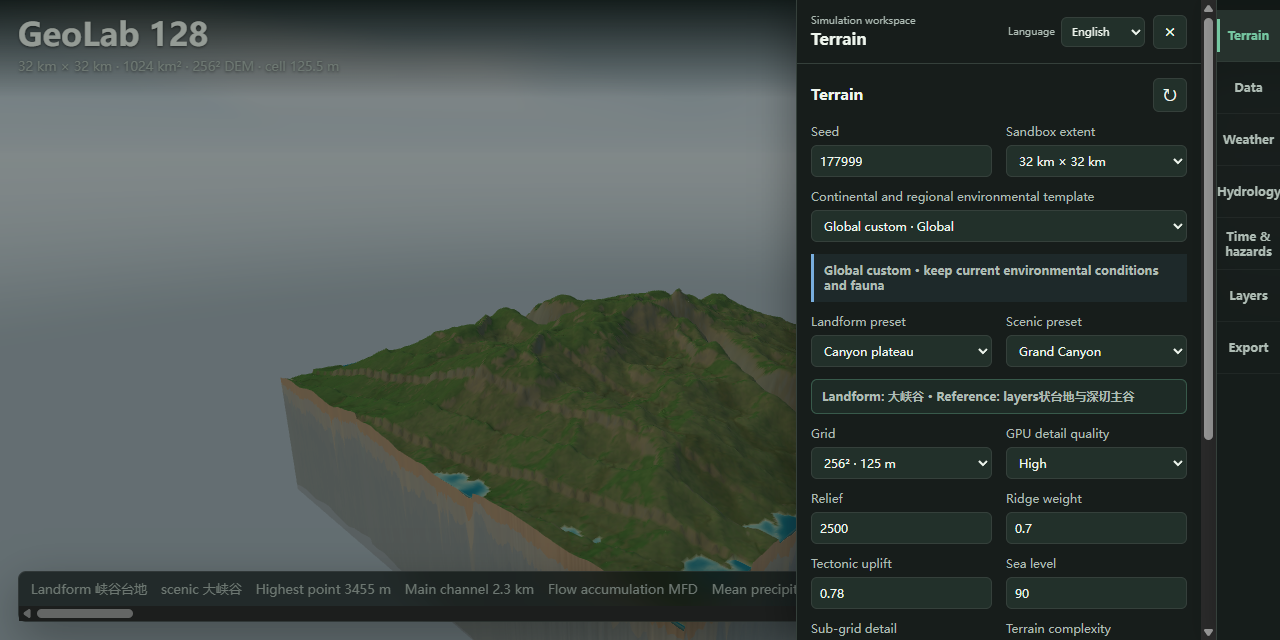
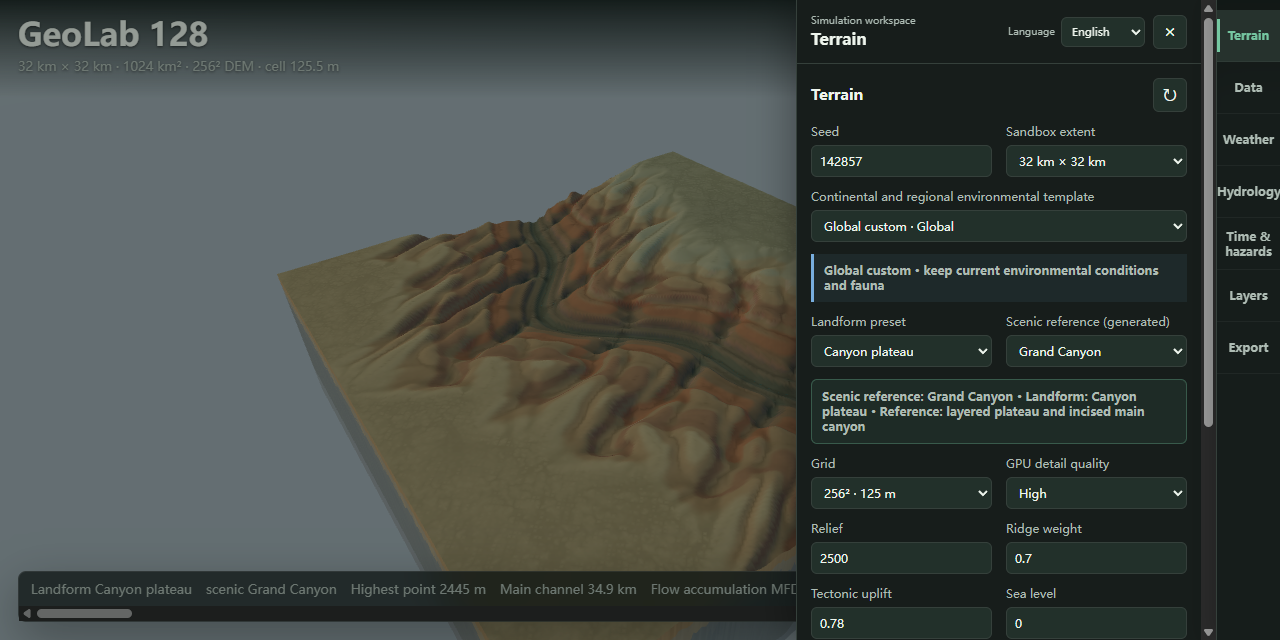
feat: rebuild generated Grand Canyon scenic terrain

diff --git a/outputs/geo-sim/src/geoEngine.js b/outputs/geo-sim/src/geoEngine.js
@@ -927,7 +927,7 @@ const INFRASTRUCTURE_TYPE_LABELS_ZH = Object.freeze({
 
 export const GEOMORPHOLOGY_PRESETS = Object.freeze([
   { id: "custom", labelZh: "\u81ea\u5b9a\u4e49\u5730\u5f62", referenceLandformZh: "\u7528\u6237\u624b\u52a8\u53c2\u6570", seedOffset: 0, params: {} },
-  { id: "canyon_plateau", labelZh: "\u5ce1\u8c37\u53f0\u5730", referenceLandformZh: "\u5e72\u65f1\u53f0\u5730\u6df1\u5207\u5ce1\u8c37", seedOffset: 4103, params: { relief: 2050, ridgeWeight: 0.68, tectonics: 0.72, microRelief: 24, riverThreshold: 56 } },
+  { id: "canyon_plateau", labelZh: "\u5ce1\u8c37\u53f0\u5730", referenceLandformZh: "\u5e72\u65f1\u53f0\u5730\u6df1\u5207\u5ce1\u8c37", seedOffset: 4103, params: { relief: 2050, ridgeWeight: 0.68, tectonics: 0.72, microRelief: 24, seaLevel: 0, humidity: 0.38, precipitationScale: 0.6, riverThreshold: 56 } },
   { id: "karst_towers", labelZh: "\u5580\u65af\u7279\u5cf0\u6797", referenceLandformZh: "\u77f3\u67f1 / 鐭虫煴\u3001\u5cf0\u4e1b\u3001\u6eb6\u8680\u6d3c\u5730", seedOffset: 7207, params: { relief: 1900, ridgeWeight: 0.82, tectonics: 0.62, microRelief: 32, permeability: 0.44, riverThreshold: 64 } },
   { id: "alpine_glacier", labelZh: "\u9ad8\u5c71\u51b0\u5ddd\u8c37", referenceLandformZh: "U \u578b\u8c37\u3001\u89d2\u5cf0\u3001\u51b0\u6597", seedOffset: 9109, params: { relief: 2600, ridgeWeight: 0.76, tectonics: 0.84, microRelief: 26, baseTemperature: 8.5, lapseRate: 7.1 } },
   { id: "volcanic_island", labelZh: "\u706b\u5c71\u5c9b\u5f27", referenceLandformZh: "\u706b\u5c71\u9525\u3001\u7834\u706b\u5c71\u53e3\u3001\u6d77\u5cb8\u9636\u5730", seedOffset: 1213, params: { relief: 2300, ridgeWeight: 0.58, tectonics: 0.88, microRelief: 20, seaLevel: 160 } },
@@ -963,7 +963,7 @@ export const SCENIC_REPRODUCTION_PRESETS = Object.freeze([
     seedOffset: 30031,
     params: { relief: 2225, ridgeWeight: 0.86, tectonics: 0.7, microRelief: 36, permeability: 0.48, riverThreshold: 58 }
   },
-  { id: "grand_canyon", labelZh: "\u5927\u5ce1\u8c37", geomorphologyPreset: "canyon_plateau", referenceLandformZh: "\u5c42\u72b6\u53f0\u5730\u4e0e\u6df1\u5207\u4e3b\u8c37", reconstructionNotesZh: ["\u7528\u5f2f\u66f2\u4e3b\u5ce1\u8c37\u548c\u591a\u7ea7\u9636\u5730\u8868\u8fbe\u53f0\u5730\u5207\u5272\u5730\u8c8c"], seedOffset: 31039, params: { relief: 2500, ridgeWeight: 0.7, tectonics: 0.78, microRelief: 26, riverThreshold: 52 } },
+  { id: "grand_canyon", labelZh: "\u5927\u5ce1\u8c37", geomorphologyPreset: "canyon_plateau", referenceLandformZh: "\u5c42\u72b6\u53f0\u5730\u4e0e\u6df1\u5207\u4e3b\u8c37", reconstructionNotesZh: ["\u7528\u5f2f\u66f2\u4e3b\u5ce1\u8c37\u548c\u591a\u7ea7\u9636\u5730\u8868\u8fbe\u53f0\u5730\u5207\u5272\u5730\u8c8c"], seedOffset: 31039, params: { relief: 2500, ridgeWeight: 0.7, tectonics: 0.78, microRelief: 26, seaLevel: 0, latitude: 36, baseTemperature: 24, humidity: 0.25, precipitationScale: 0.5, vegetationCoverScale: 0.5, riverThreshold: 52 } },
   { id: "guilin_lijiang", labelZh: "\u6842\u6797\u6f13\u6c5f", geomorphologyPreset: "karst_towers", referenceLandformZh: "\u5580\u65af\u7279\u5b64\u5cf0\u3001\u6c5f\u6d41\u5e73\u539f", reconstructionNotesZh: ["\u964d\u4f4e\u6574\u4f53\u8d77\u4f0f\u3001\u5f3a\u5316\u4f4e\u5730\u6cb3\u8c37\u4e0e\u5b64\u5cf0\u7684\u5bf9\u6bd4"], seedOffset: 32041, params: { relief: 1450, ridgeWeight: 0.78, tectonics: 0.52, microRelief: 26, humidity: 1.12, riverThreshold: 44 } },
   { id: "yosemite_valley", labelZh: "\u7ea6\u585e\u7c73\u8482\u51b0\u5ddd\u8c37", geomorphologyPreset: "alpine_glacier", referenceLandformZh: "\u82b1\u5c97\u5ca9 U \u578b\u8c37\u3001\u60ac\u5d16\u3001\u51b0\u6597", reconstructionNotesZh: ["\u901a\u8fc7 U \u578b\u8c37\u69fd\u548c\u5c71\u810a\u9510\u5316\u8fd1\u4f3c\u51b0\u5ddd\u4fb5\u8680\u5256\u9762"], seedOffset: 33049, params: { relief: 2850, ridgeWeight: 0.79, tectonics: 0.86, microRelief: 24, baseTemperature: 7.8 } },
   { id: "huangshan", labelZh: "\u9ec4\u5c71", geomorphologyPreset: "alpine_glacier", referenceLandformZh: "\u82b1\u5c97\u5ca9\u5cf0\u4e1b\u3001\u9661\u58c1\u3001\u72ed\u810a", reconstructionNotesZh: ["\u5f3a\u5316\u5cf0\u4e1b\u3001\u5c71\u810a\u548c\u5d16\u58c1\u7684\u8d77\u4f0f\uff0c\u9002\u5408\u590d\u73b0\u5c71\u5730\u666f\u89c2"], seedOffset: 34057, params: { relief: 2150, ridgeWeight: 0.84, tectonics: 0.75, microRelief: 34, humidity: 1.04 } },
@@ -1771,6 +1771,8 @@ export function createDefaultParams() {
     windSpeed: 12,
     baseTemperature: 17.5,
     humidity: 0.92,
+    precipitationScale: 1,
+    vegetationCoverScale: 1,
     latitude: 32,
     lapseRate: 6.2,
     permeability: 0.28,
@@ -1817,23 +1819,33 @@ export function applyTerrainPresetParams(baseParams = {}, selection = {}) {
   const scenicId = String(selection.scenicPreset ?? base.scenicPreset ?? "none");
   const scenic = scenicPresetById(scenicId);
   const selectedGeomorphology = selection.geomorphologyPreset ?? base.geomorphologyPreset;
-  const geomorphologyId = String(
-    selectedGeomorphology && selectedGeomorphology !== "custom"
-      ? selectedGeomorphology
-      : scenic && scenic.id !== "none"
-        ? scenic.geomorphologyPreset
-        : selectedGeomorphology || "custom"
-  );
+  const geomorphologyId = String(scenic?.id !== "none"
+    ? scenic.geomorphologyPreset
+    : selectedGeomorphology || "custom");
   const geomorphology = geomorphologyPresetById(geomorphologyId);
   const geomorphologyInfo = terrainPresetDisplayInfo(geomorphology, "geomorphology");
   const scenicInfo = terrainPresetDisplayInfo(scenic, "scenic");
   const seedBase = Number.isFinite(Number(base.seed)) ? Math.round(Number(base.seed)) : 142857;
-  const seedOffset = (geomorphology?.seedOffset || 0) + (scenic?.seedOffset || 0);
+  const previousScenicId = selection.previousScenicPreset ?? base.scenicPreset ?? "none";
+  const previousGeomorphologyId = selection.previousGeomorphologyPreset ?? base.geomorphologyPreset ?? "custom";
+  const changedPreset = scenicId !== previousScenicId || geomorphologyId !== previousGeomorphologyId;
+  const defaults = changedPreset ? createDefaultParams() : null;
   const next = {
     ...base,
+    ...(defaults && (scenicId !== "none" || geomorphologyId !== "custom") ? {
+      seaLevel: defaults.seaLevel,
+      baseTemperature: defaults.baseTemperature,
+      humidity: defaults.humidity,
+      precipitationScale: defaults.precipitationScale,
+      vegetationCoverScale: defaults.vegetationCoverScale,
+      latitude: defaults.latitude,
+      lapseRate: defaults.lapseRate,
+      windDirection: defaults.windDirection,
+      windSpeed: defaults.windSpeed
+    } : {}),
     ...(geomorphology?.params || {}),
     ...(scenic?.params || {}),
-    seed: seedOffset ? normalizeSeed(seedBase + seedOffset) : seedBase,
+    seed: seedBase,
     geomorphologyPreset: geomorphology?.id || "custom",
     scenicPreset: scenic?.id || "none",
     terrainPresetLabelZh: geomorphologyInfo?.labelZh || "\u81ea\u5b9a\u4e49\u5730\u5f62",
@@ -1865,11 +1877,6 @@ export function terrainPresetDisplayInfo(presetOrId, kind = "geomorphology") {
   if (!preset) return null;
   const overrides = TERRAIN_DISPLAY_TEXT_OVERRIDES[kind]?.[preset.id] || {};
   return { ...preset, ...overrides };
-}
-
-function normalizeSeed(value) {
-  const seed = Math.abs(Math.round(Number(value) || 1)) % 2_147_483_647;
-  return seed || 1;
 }
 
 function terrainPresetSummary(params = {}) {
@@ -7517,8 +7524,19 @@ function createHeightField(n, params) {
 
 function generateTerrain(n, params) {
   const height = new Float32Array(n * n);
-  const seed = Number(params.seed) || 1;
+  const seed = (Number(params.seed) || 1) +
+    (geomorphologyPresetById(params.geomorphologyPreset)?.seedOffset || 0) +
+    (scenicPresetById(params.scenicPreset)?.seedOffset || 0);
   const relief = Number(params.relief);
+  if (params.scenicPreset === "grand_canyon") {
+    for (let y = 0; y < n; y += 1) {
+      for (let x = 0; x < n; x += 1) {
+        height[y * n + x] = grandCanyonHeight(x / (n - 1), y / (n - 1), seed, relief, Number(params.mapSizeKm));
+      }
+    }
+    preconditionTerrain(height, n, params);
+    return height;
+  }
   const ridgeWeight = Number(params.ridgeWeight);
   const tectonics = Number(params.tectonics);
   const complexity = clamp(Number(params.terrainComplexity ?? 0.58), 0, 1);
@@ -7594,7 +7612,9 @@ function applyGeomorphologyPresetToHeight(height, n, params) {
   const id = String(params.geomorphologyPreset || "custom");
   if (!id || id === "custom") return;
   const relief = firstFinite(params.relief, 1450);
-  const seed = Number(params.seed) || 1;
+  const seed = (Number(params.seed) || 1) +
+    (geomorphologyPresetById(params.geomorphologyPreset)?.seedOffset || 0) +
+    (scenicPresetById(params.scenicPreset)?.seedOffset || 0);
   const process = terrainPresetProcessProfile(params);
   for (let y = 0; y < n; y += 1) {
     const ny = y / Math.max(1, n - 1);
@@ -7625,6 +7645,48 @@ function applyGeomorphologyPresetToHeight(height, n, params) {
       if (delta) height[i] = clamp(height[i] + delta, 0, MAX_TERRAIN_ELEVATION_M);
     }
   }
+}
+
+function grandCanyonHeight(nx, ny, seed, relief, mapSizeKm) {
+  // NPS park statistics put the rims near 2.1/2.4 km and the river roughly 1.6 km below them.
+  // This is a process-shaped reference scene, not a georeferenced Grand Canyon DEM.
+  const widthKm = Number.isFinite(mapSizeKm) && mapSizeKm > 0 ? mapSizeKm : MAP_SIZE_KM;
+  const depthScale = clamp(relief / 2500, 0.45, 1.6);
+  const center = 0.5 + Math.sin(nx * Math.PI * 2.3 + seed * 0.0007) * 0.1 +
+    Math.sin(nx * Math.PI * 5.6 + seed * 0.0011) * 0.03;
+  const side = ny < center ? -1 : 1;
+  const distanceKm = Math.abs(ny - center) * widthKm;
+  const rimVariation = 0.67 + fbm(nx * 7 + 4, ny * 2 - 3, seed + 677, 3, 2, 0.5) * 0.5 +
+    fbm(nx * 23 - 4, ny * 9 + 3, seed + 691, 3, 2, 0.5) * 0.22;
+  const distance = distanceKm / (clamp(widthKm * 0.24, 1.5, 8.5) * rimVariation);
+  const wall = clamp(
+    0.11 * smoothstep(0.015, 0.07, distance) +
+    0.20 * smoothstep(0.12, 0.19, distance) +
+    0.12 * smoothstep(0.21, 0.34, distance) +
+    0.22 * smoothstep(0.40, 0.49, distance) +
+    0.13 * smoothstep(0.57, 0.72, distance) +
+    0.22 * smoothstep(0.79, 0.98, distance), 0, 1
+  );
+  const river = 780 + (1 - nx) * widthKm * 1.3;
+  const rim = 780 + (side < 0 ? 1650 : 1350) * depthScale;
+  const plateauNoise = (fbm(nx * 5.5 + 13, ny * 5.5 - 7, seed + 701, 4, 2, 0.5) - 0.5) * 65;
+  const wallNoise = (fbm(nx * 16 - 9, ny * 16 + 21, seed + 733, 3, 2, 0.48) - 0.5) * 95;
+  const branchIndex = Math.round((nx - side * 0.085 * distance) * 7 - 0.5);
+  const branchX = (branchIndex + 0.5) / 7 + side * 0.085 * distance +
+    Math.sin(distance * 8 + branchIndex * 2.7 + seed * 0.0001) * 0.012 * distance;
+  const branchWidth = 0.012 + distance * 0.012;
+  const tributary = Math.exp(-Math.pow((nx - branchX) / branchWidth, 2)) *
+    smoothstep(0.08, 0.25, distance) * (1 - smoothstep(1.08, 1.55, distance));
+  const feederIndex = Math.round((nx - side * 0.16 * distance) * 15 - 0.5);
+  const feederX = (feederIndex + 0.5) / 15 + side * 0.16 * distance +
+    Math.sin(distance * 11 + feederIndex * 3.1 + seed * 0.00013) * 0.006 * distance;
+  const feeder = Math.exp(-Math.pow((nx - feederX) / (0.009 + distance * 0.007), 2)) *
+    smoothstep(0.35, 0.58, distance) * (1 - smoothstep(1.10, 1.45, distance));
+  return clamp(
+    river + (rim - river) * wall + plateauNoise * wall + wallNoise * Math.sin(Math.PI * wall) -
+    (tributary * 420 + feeder * 150) * depthScale,
+    1, MAX_TERRAIN_ELEVATION_M
+  );
 }
 
 function canyonPlateauDelta(nx, ny, seed, relief, process = TERRAIN_PROCESS_DEFAULT) {
@@ -21076,6 +21138,8 @@ function applyTerrainPresetColor(baseColor, model, params, i, t) {
   const plan = terrainPresetMaterialPlan(params, model.stats);
   if (!plan.active || plan.blend <= 0) return baseColor;
   const material = TERRAIN_PRESET_MATERIALS[plan.geomorphologyPreset] || TERRAIN_PRESET_MATERIALS.custom;
+  const h = Number(model.height?.[i] ?? 0);
+  const seaLevel = Number(params.seaLevel ?? 0);
   const slopeNorm = clamp((model.slope?.[i] ?? 0) / 48, 0, 1);
   const roughMax = Math.max(120, model.stats?.maxRoughness ?? 180);
   const roughNorm = clamp((model.terrainDiagnostics?.roughness?.[i] ?? 0) / roughMax, 0, 1);

diff --git a/outputs/geo-sim/src/main.js b/outputs/geo-sim/src/main.js
@@ -147,6 +147,8 @@ const ids = [
   "windSpeed",
   "baseTemperature",
   "humidity",
+  "precipitationScale",
+  "vegetationCoverScale",
   "latitude",
   "lapseRate",
   "permeability",
@@ -857,6 +859,8 @@ function bindUi() {
     "windSpeed",
     "baseTemperature",
     "humidity",
+    "precipitationScale",
+    "vegetationCoverScale",
     "latitude",
     "lapseRate",
     "permeability",
@@ -2419,9 +2423,12 @@ function exportEcologicalIntegrityCSV() {
 }
 
 async function applyTerrainPresetSelection() {
+  const previousScenicPreset = params.scenicPreset;
   const next = applyTerrainPresetParams(readParams(), {
     geomorphologyPreset: ui.geomorphologyPreset?.value || "custom",
-    scenicPreset: ui.scenicPreset?.value || "none"
+    scenicPreset: ui.scenicPreset?.value || "none",
+    previousGeomorphologyPreset: params.geomorphologyPreset,
+    previousScenicPreset: params.scenicPreset
   });
   params = next;
   writeParams(params);
@@ -2433,6 +2440,7 @@ async function applyTerrainPresetSelection() {
   const label = scenic?.id && scenic.id !== "none" ? scenicDisplay?.labelZh : geomorphologyDisplay?.labelZh || "\u81ea\u5b9a\u4e49\u5730\u5f62";
   setStatus(`\u5df2\u5e94\u7528\u5730\u8c8c\u9884\u8bbe\uff1a${label}`);
   await rebuildTerrain();
+  if (previousScenicPreset !== next.scenicPreset && next.scenicPreset === "grand_canyon") renderer.resetCamera();
 }
 
 function updateTerrainPresetStatus() {
@@ -2444,7 +2452,9 @@ function updateTerrainPresetStatus() {
   const activeScenic = scenic && scenic.id !== "none";
   const label = activeScenic ? scenicDisplay?.labelZh : geomorphologyDisplay?.labelZh || "\u81ea\u5b9a\u4e49\u5730\u5f62";
   const reference = activeScenic ? scenicDisplay?.referenceLandformZh : geomorphologyDisplay?.referenceLandformZh || "\u624b\u52a8\u53c2\u6570";
-  terrainPresetStatus.textContent = `\u5730\u8c8c\uff1a${label} · \u53c2\u7167\uff1a${reference}`;
+  terrainPresetStatus.textContent = activeScenic
+    ? `\u666f\u533a\u53c2\u8003\uff1a${label} · \u5730\u8c8c\uff1a${geomorphologyDisplay?.labelZh || ""} · \u53c2\u7167\uff1a${reference}`
+    : `\u5730\u8c8c\uff1a${label} · \u53c2\u7167\uff1a${reference}`;
 }
 
 async function rebuildTerrain() {
@@ -3006,10 +3016,6 @@ function updateMetrics() {
   const eventDynamics = stats.hazards?.eventDynamics || null;
   const eventPulses = eventDynamics?.currentYearPulses || null;
   const seasonalState = stats.hazards?.seasonalState || eventDynamics?.seasonalState || null;
-  const terrainPresetMetricChips = [
-    stats.terrainPreset?.active ? `<span>\u5730\u8c8c/鍦拌矊 ${stats.terrainPreset.labelZh}</span>` : "",
-    stats.terrainPreset?.scenicPreset && stats.terrainPreset.scenicPreset !== "none" ? `<span>\u666f\u533a/鏅尯 ${stats.terrainPreset.scenicLabelZh}</span>` : ""
-  ].filter(Boolean);
   const cleanTerrainPresetMetricChips = [
     stats.terrainPreset?.active ? `<span>地貌 ${stats.terrainPreset.labelZh}</span>` : "",
     stats.terrainPreset?.scenicPreset && stats.terrainPreset.scenicPreset !== "none" ? `<span>景区 ${stats.terrainPreset.scenicLabelZh}</span>` : ""
@@ -3509,6 +3515,8 @@ function readParams() {
     windSpeed: Number(ui.windSpeed.value),
     baseTemperature: Number(ui.baseTemperature.value),
     humidity: Number(ui.humidity.value),
+    precipitationScale: Number(ui.precipitationScale.value),
+    vegetationCoverScale: Number(ui.vegetationCoverScale.value),
     latitude: Number(ui.latitude.value),
     lapseRate: Number(ui.lapseRate.value),
     permeability: Number(ui.permeability.value),

diff --git a/outputs/geo-sim/src/terrainAppearance.js b/outputs/geo-sim/src/terrainAppearance.js
@@ -14,6 +14,30 @@ const smooth = (low, high, value) => {
   const t = unit((value - low) / (high - low));
   return t * t * (3 - 2 * t);
 };
+// Illustrative bed colors and alternating cliff/bench levels, not mapped local stratigraphy.
+const CANYON_BEDS = [
+  [780, [94, 91, 88]],
+  [930, [125, 100, 91]],
+  [1110, [154, 111, 91]],
+  [1320, [185, 105, 78]],
+  [1510, [178, 135, 106]],
+  [1710, [169, 111, 91]],
+  [1890, [191, 145, 112]],
+  [2070, [207, 176, 139]],
+  [2270, [191, 183, 157]],
+  [2440, [159, 151, 135]]
+];
+
+function canyonBedColor(height) {
+  let color = CANYON_BEDS[0][1];
+  for (let i = 1; i < CANYON_BEDS.length; i += 1) {
+    const [elevation, next] = CANYON_BEDS[i];
+    const blend = smooth(elevation - 35, elevation + 35, height);
+    if (blend === 0) break;
+    color = color.map((channel, index) => channel * (1 - blend) + next[index] * blend);
+  }
+  return color;
+}
 
 /**
  * Geomorphic description of one surface cell, derived from the lithology that underlies it.
@@ -212,14 +236,16 @@ export function naturalTerrainColor(model, params, index, weights = null, lithol
   if (model.height[index] <= (Number(params?.seaLevel) || 0)) return [142, 151, 132];
   const geomorphology = prepared || surfaceGeomorphology(model, params, index, { lithologyTable });
   const [rock, vegetation, wet, sealed] = weights || [geomorphology.rock, geomorphology.vegetation, geomorphology.wet, geomorphology.sealed];
-  const soil = [139, 121, 93];
-  const mineral = [147, 151, 146];
-  const plant = [65, 108, 54];
+  const canyonReference = params?.scenicPreset === "grand_canyon";
+  const canyonBed = canyonReference ? canyonBedColor(model.height[index]) : null;
+  const soil = canyonBed ? canyonBed.map(channel => channel * 0.92 + 10) : [139, 121, 93];
+  const mineral = canyonBed || [147, 151, 146];
+  const plant = canyonReference ? [83, 105, 65] : [65, 108, 54];
   // Weathered cover and scree are drawn toward the lithology's own colour, so a granite upland and
   // a clay plain stop sharing one regolith tone.
   const lithologyColor = lithologyTable?.[geomorphology.lithologyCode]?.color || lithologyTable?.[0]?.color || null;
   const cover = unit(geomorphology.regolith ?? 0) + unit(geomorphology.scree ?? 0);
-  const regolithTone = lithologyColor
+  const regolithTone = lithologyColor && !canyonReference
     ? soil.map((value, channel) => value * 0.72 + lithologyColor[channel] * 0.28)
     : soil;
   return regolithTone.map((value, channel) => {

diff --git a/outputs/geo-sim/src/localization.js b/outputs/geo-sim/src/localization.js
@@ -396,7 +396,10 @@ const TERMS = Object.entries({
   "大洲与区域环境模板": "Continental and regional environmental template",
   "地形复杂度": "Terrain complexity", "地貌丰富度": "Landform diversity",
   "生态区块网格": "Ecological block grid", "真实数据权重": "Observed data weight",
-  "经典景区": "Scenic preset", "地貌预设": "Landform preset", "自然条件": "environmental conditions",
+  "景区参考（程序生成）": "Scenic reference (generated)", "景区参考": "Scenic reference", "地貌预设": "Landform preset", "自然条件": "environmental conditions",
+  "峡谷台地": "Canyon plateau", "大峡谷": "Grand Canyon", "层状台地与深切主谷": "layered plateau and incised main canyon",
+  "区域降水倍率": "Regional rain scale",
+  "植被覆盖倍率": "Vegetation cover scale",
   "沙盘边长": "Sandbox extent", "网格": "Grid", "种子": "Seed", "GPU细节质量": "GPU detail quality",
   "真实数据": "Observed data", "数据层": "data layers", "采集计划": "Acquisition plan",
   "手工": "Manual", "地表": "surface", "气候情景": "climate scenario", "人造设施": "infrastructure",

diff --git a/outputs/geo-sim/index.html b/outputs/geo-sim/index.html
@@ -103,7 +103,7 @@
               <select id="geomorphologyPreset"></select>
             </label>
             <label>
-              经典景区
+              景区参考（程序生成）
               <select id="scenicPreset"></select>
             </label>
             <label class="wide-field terrain-preset-strip">
@@ -660,6 +660,14 @@
             <label>
               湿度
               <input id="humidity" type="number" min="0.15" max="1.8" step="0.01" value="0.92" />
+            </label>
+            <label>
+              区域降水倍率
+              <input id="precipitationScale" type="number" min="0.25" max="2.5" step="0.05" value="1" />
+            </label>
+            <label>
+              植被覆盖倍率
+              <input id="vegetationCoverScale" type="number" min="0.2" max="1.8" step="0.05" value="1" />
             </label>
             <label>
               纬度

diff --git a/outputs/geo-sim/src/terrainRenderer.js b/outputs/geo-sim/src/terrainRenderer.js
@@ -1013,6 +1013,11 @@ export class TerrainRenderer {
     const sizeKm = modelSizeKm(this.model);
     const focusY = terrainCameraFocusY(this.model, this.params);
     const home = cameraHome(sizeKm, this.camera.aspect);
+    if (this.params?.scenicPreset === "grand_canyon") {
+      home.x = sizeKm * 0.75;
+      home.y = sizeKm * 0.68;
+      home.z = sizeKm * 0.58;
+    }
     this.camera.position.set(home.x, home.y + focusY, home.z);
     this.controls.target.set(0, focusY, 0);
     this.controls.update();

diff --git a/README.md b/README.md
@@ -4,7 +4,7 @@
 [![License: MIT](https://img.shields.io/badge/license-MIT-2f855a.svg)](LICENSE)
 [![Version](https://img.shields.io/github/v/tag/laiyukai910-star/geolab-128?label=release)](https://github.com/laiyukai910-star/geolab-128/releases)
 
-![GeoLab 128 terrain controls and a 32 km canyon scenario](media/workspace-terrain.jpg)
+![Generated 32 km canyon reference terrain in GeoLab 128](media/workspace-terrain.jpg)
 
 GeoLab 128 builds a 3D map of a square region. Set the map size and grid, generate terrain or
 import elevation data, then change the weather, rivers, land cover and facilities. The map can be
@@ -52,9 +52,12 @@ results are not site-specific forecasts.
 
 ## Feature Gallery
 
-Browser screenshots: 32 km × 32 km, 256² grid, Grand Canyon preset. The preset is generated
-terrain, not surveyed Grand Canyon data. The opening image shows the terrain controls; below is
-the same map with flow accumulation selected.
+Browser screenshots: 32 km × 32 km, 256² grid, Grand Canyon preset. The preset now uses an inland
+plateau, incised river corridor and dry climate informed by [National Park Service park
+statistics](https://home.nps.gov/grca/learn/management/statistics.htm). It does not contain a
+georeferenced Grand Canyon DEM. River lines come from simulated local runoff, not a traced Colorado
+River or prescribed upstream inflow. The opening image shows the 3D map; below is the same scenario
+with flow accumulation selected.
 
 ![Flow accumulation selected in the analysis drawer](media/workspace-flow.jpg)
 

diff --git a/CHANGELOG.md b/CHANGELOG.md
@@ -4,6 +4,7 @@ Notable user-visible, model, compatibility, and reliability changes are recorded
 
 ## [Unreleased]
 
+- Rebuilt the generated Grand Canyon reference as an inland plateau with a continuous incised channel, tributary cuts, drier climate, sparser vegetation and stratified warm surface tones. Scenic selection now takes priority over a stale landform choice, keeps the user seed stable and resets inherited climate settings when changing presets. Added precipitation and vegetation-cover controls, fixed preset elevation coloring, and refreshed the running-app screenshots.
 - Rewrote the repository introduction and feature list in plain language, with concrete controls and outputs instead of broad claims.
 - Replaced the README and tracked social-preview images with current browser screenshots. Rewrote the feature inventory around controls and inspectable outputs, and clarified illustrative 3D detail and hosted-build limits.
 - Nearby trees and grass now form uneven patches with varied height and color; park trees grow in small groves. Close trees use a more detailed mesh.
